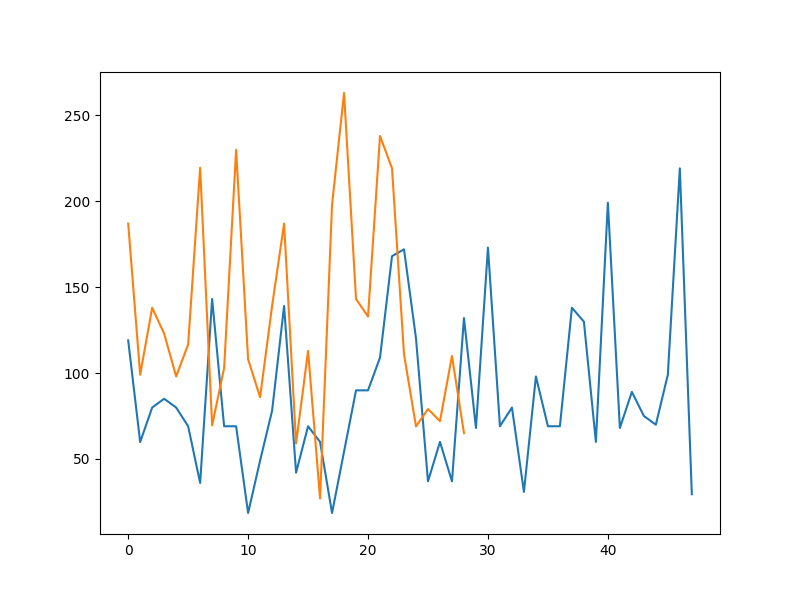
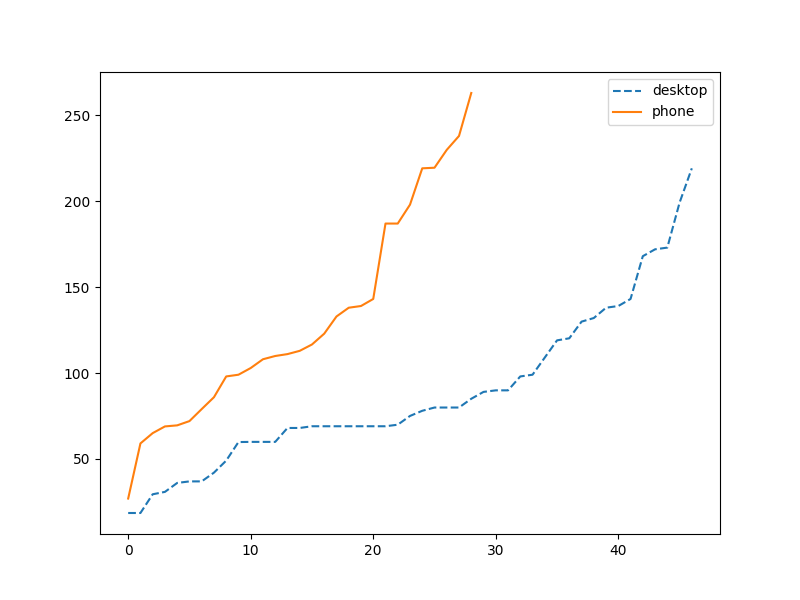
fix line plots

diff --git a/compare.py b/compare.py
@@ -11,13 +11,26 @@ data_desktop = data_desktop.dropna()
 # %%
 data_phone = pd.read_csv("phone_prices.txt", header=None)
 
+#%%
+data_desktop
+#%%
+data_desktop = data_desktop.sort_values(by=0)
+data_desktop
+#%%
+data_desktop.index
+#%%
+data_desktop.index = list(range(len(data_desktop)))
+# %%
+data_phone = data_phone.sort_values(by=0)
+data_phone.index = list(range(len(data_phone)))
 # %%
 plt.figure(figsize=(8, 6))  # Optional: Adjust figure size
 
 
-plt.plot(data_desktop, label="desktop")
+plt.plot(data_desktop, linestyle="--", label="desktop")
 
-plt.plot(data_phone, label="phone")
+plt.plot(data_phone, linestyle="-", label="phone")
+plt.legend()
 
 plt.savefig("line_plot.png")
 plt.show()
@@ -34,7 +47,7 @@ plt.figure(figsize=(3, 6))
 
 plt.boxplot(
     [data_desktop.iloc[:, 0], data_phone.iloc[:, 0]],
-    labels=["desktop", "phone"],
+    tick_labels=["desktop", "phone"],
     widths=[0.7, 0.7],
 )
 plt.savefig("box_plot.png")

diff --git a/legend.py b/legend.py
@@ -1,0 +1,26 @@
+# %%
+import matplotlib.pyplot as plt
+import numpy as np
+
+# Sample data for two lines
+x = np.linspace(0, 10, 100)
+y1 = np.sin(x)
+y2 = np.cos(x)
+
+# Create the figure and axes
+plt.figure(figsize=(8, 6))
+plt.plot(x, y1, color='blue', linestyle='-', label='Sine Wave')  # Add label for the first line
+plt.plot(x, y2, color='red', linestyle='--', label='Cosine Wave') # Add label for the second line
+
+# Add labels and title
+plt.xlabel('X-axis')
+plt.ylabel('Y-axis')
+plt.title('Sine and Cosine Waves')
+
+# Add the legend
+plt.legend()
+
+# Display the plot
+plt.grid(True)
+plt.show()
+# %%
